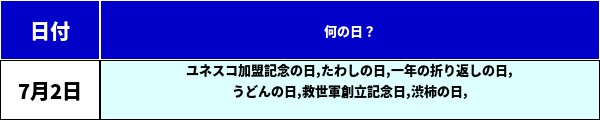
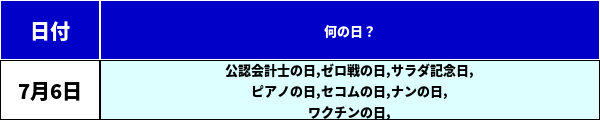
日付を明日に修正

diff --git a/src/slochan_post_twitter_tomorrow_birthday.py b/src/slochan_post_twitter_tomorrow_birthday.py
@@ -46,7 +46,7 @@ def post_line_image_and_text(message,image_path,line_token):
 
 
 today = datetime.date.today()
-tomorrow = today + datetime.timedelta(days=7)
+tomorrow = today + datetime.timedelta(days=1)
 url = f'https://sulocale.sulopachinews.com/archives/%E3%82%A4%E3%83%99%E3%83%B3%E3%83%88/{tomorrow.strftime("%m%d")}'
 print(url)
 birthday_dfs = pd.read_html(url)
